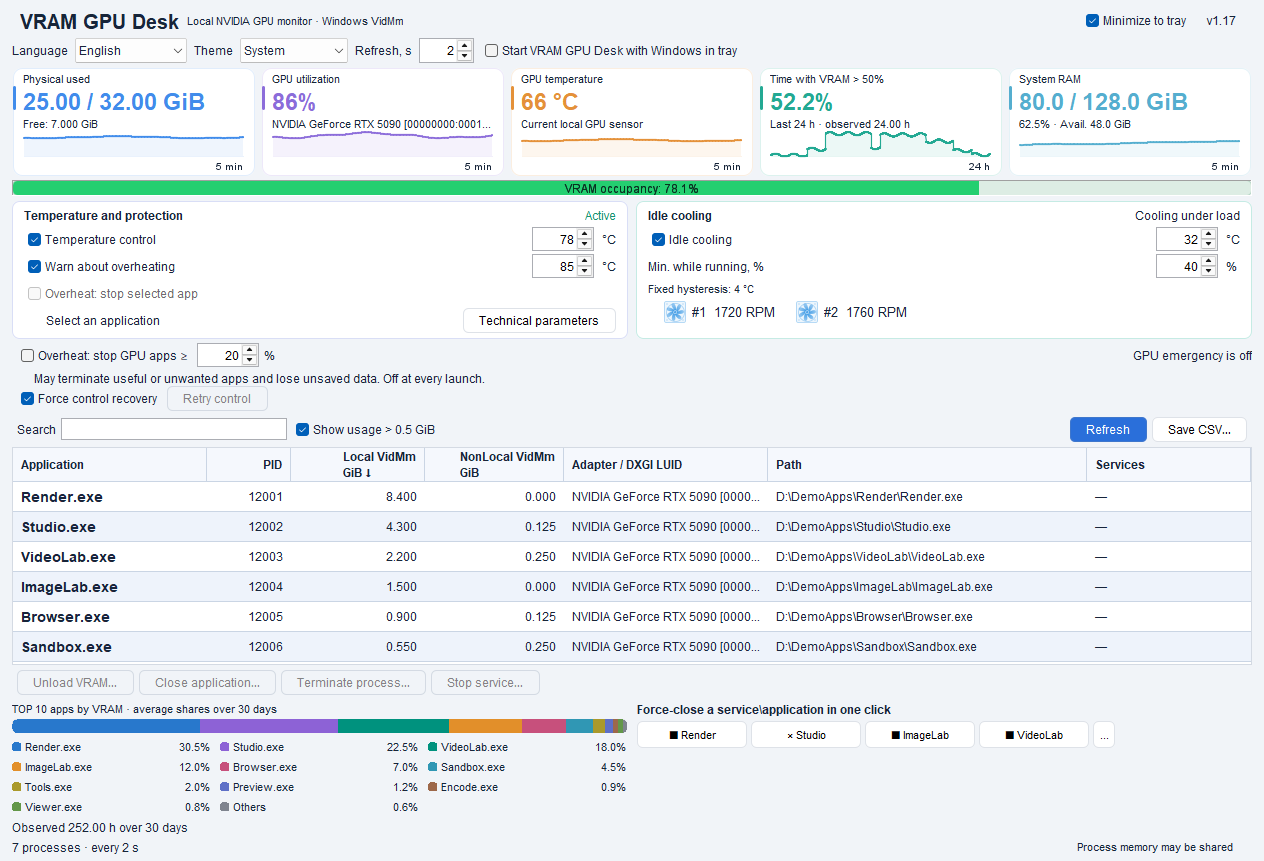
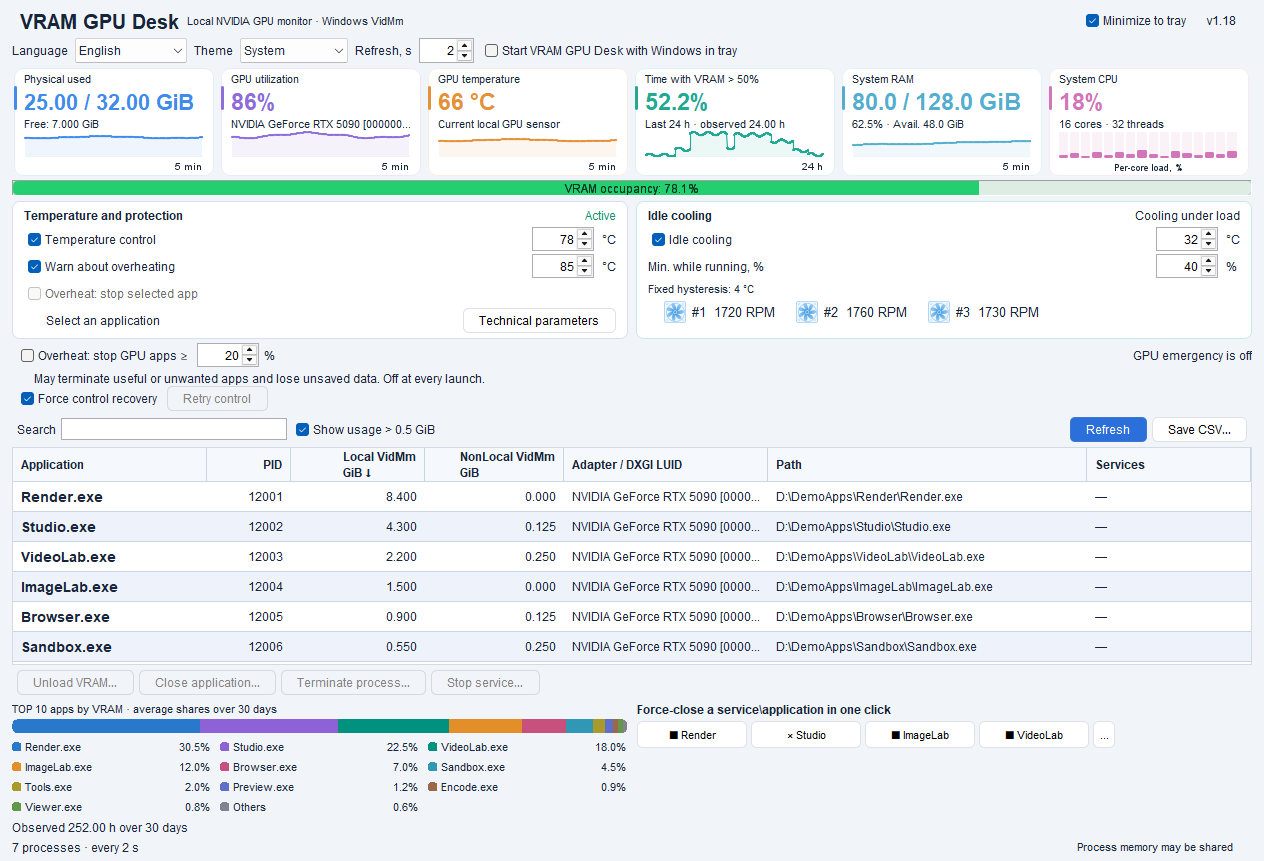
feat: publish VRAM GPU Desk 1.18
Add physical CPU load monitoring and the divided two-GPU workspace.
Update all twelve descriptions and demonstration screenshots.

Changed region(s): [[0.0, 0.0906, 0.9873, 0.2114], [0.7405, 0.3322, 0.8022, 0.3926]]

diff --git a/README.hi.md b/README.hi.md
@@ -1,4 +1,4 @@
-# VRAM GPU Desk 1.17
+# VRAM GPU Desk 1.18
 
 [English](README.md) · [Русский](README.ru.md) · [Deutsch](README.de.md) · [Español](README.es.md) · [Français](README.fr.md) · [Italiano](README.it.md) · [简体中文](README.zh.md) · [한국어](README.ko.md) · [日本語](README.ja.md) · [العربية](README.ar.md) · [हिन्दी](README.hi.md) · [Tiếng Việt](README.vi.md)
 
@@ -6,7 +6,7 @@
 
 ## मुख्य सुविधाएँ
 
-- लाइव ग्राफ़ के साथ NVIDIA VRAM, GPU लोड और तापमान तथा सिस्टम RAM उपयोग की स्थानीय निगरानी।
+- लाइव ग्राफ़ के साथ NVIDIA VRAM, GPU लोड और तापमान, सिस्टम RAM तथा कोर पट्टियों के साथ CPU उपयोग की स्थानीय निगरानी।
 - प्रत्येक प्रक्रिया की GPU मेमोरी, खोज, क्रमबद्ध करना और UTF-8 CSV निर्यात।
 - तापमान नियंत्रण और निष्क्रिय अवस्था में कूलिंग।
 - प्रक्रियाओं के सटीक इंस्टेंस से जुड़े चार अनुकूलन योग्य एक-क्लिक बटन; वैकल्पिक आपातकालीन समाप्ति हर बार ऐप शुरू होने पर बंद रहती है।
@@ -15,7 +15,7 @@
 - स्वतंत्र सेटिंग वाले दो NVIDIA पैनल; दूसरे GPU का नियंत्रण प्रयोगात्मक है।
 - नियंत्रण खोने की चेतावनी और मैन्युअल पुनः प्रयास; नई सेटिंग में बहाली ON, पहले से सहेजा गया OFF बरकरार।
 
-[Windows इंस्टॉलर डाउनलोड करें](downloads/VRAM-GPU-Desk-1.17-Setup-x64.exe) · [इंस्टॉलर ZIP](downloads/VRAM-GPU-Desk-1.17-Installer.zip)
+[Windows इंस्टॉलर डाउनलोड करें](downloads/VRAM-GPU-Desk-1.18-Setup-x64.exe) · [इंस्टॉलर ZIP](downloads/VRAM-GPU-Desk-1.18-Installer.zip)
 
 ![VRAM GPU Desk — Graphite थीम](images/dashboard-graphite.png)
 
@@ -27,6 +27,14 @@
 > **एक साथ GPU नियंत्रण:** GPU के तापमान पैरामीटर का नियंत्रण उन अन्य प्रोग्रामों से टकरा सकता है जो उसी समय पावर, क्लॉक या पंखे की गति बदलते हैं, जैसे MSI Afterburner। इन सेटिंग के लिए केवल एक सक्रिय नियंत्रक इस्तेमाल करें। यह चेतावनी एक साथ सेटिंग बदलने के बारे में है, निष्क्रिय निगरानी के बारे में नहीं।
 
 
+
+## 1.18 में नया: CPU उपयोग और दो GPU के लिए अधिक स्पष्ट कार्यक्षेत्र
+
+**सिस्टम RAM के साथ CPU लोड।** CPU कार्ड कुल उपयोग, भौतिक कोर और लॉजिकल थ्रेड की संख्या तथा हर भौतिक कोर के तात्कालिक उपयोग की अलग पट्टी दिखाता है। हर पट्टी अपने कोर के लॉजिकल थ्रेड को जोड़ती है; कुल प्रतिशत लॉजिकल प्रोसेसरों के अनुसार भारित है। Windows के अंतर्निहित माप अतिरिक्त UAC, ड्राइवर या दूसरे मॉनिटरिंग ऐप के बिना काम करते हैं। गायब, अमान्य या छह सेकंड से पुरानी रीडिंग **—** और अनुपलब्ध कोर पट्टियों से दिखाई जाती है।
+
+**एक GPU: 1200×900 पर छह कार्ड।** चार GPU कार्ड, सिस्टम RAM और CPU लोड साथ दिखाई देते हैं। **दो NVIDIA GPU: न्यूनतम 1920×1050।** हर GPU का अलग 2×2 चार-कार्ड ब्लॉक, एक सीध में रीडिंग और पूरे नियंत्रण हैं। पतली खड़ी विभाजक रेखाएँ GPU क्षेत्रों और दाईं साझा कॉलम को अलग करती हैं; ऊपर RAM और नीचे ऊँचा CPU कार्ड है। सिस्टम RAM और CPU केवल एक बार दिखाई देते हैं और GPU चयन से स्वतंत्र हैं। दूसरे GPU का नियंत्रण अभी भी प्रयोगात्मक है।
+
+जगह कम होने पर लाइन बदलने से तीनों पंखों के संकेतक दिखाई देते हैं। पंखों के नियंत्रण का तर्क नहीं बदला है। कॉम्पैक्ट त्वरित बटन, स्पष्ट प्रक्रिया नाम और सभी मौजूदा सेटिंग बरकरार हैं।
 
 ## 1.17 में नया: सिस्टम RAM एक नज़र में
 

diff --git a/README.ar.md b/README.ar.md
@@ -1,4 +1,4 @@
-# VRAM GPU Desk 1.17
+# VRAM GPU Desk 1.18
 
 [English](README.md) · [Русский](README.ru.md) · [Deutsch](README.de.md) · [Español](README.es.md) · [Français](README.fr.md) · [Italiano](README.it.md) · [简体中文](README.zh.md) · [한국어](README.ko.md) · [日本語](README.ja.md) · [العربية](README.ar.md) · [हिन्दी](README.hi.md) · [Tiếng Việt](README.vi.md)
 
@@ -6,7 +6,7 @@
 
 ## الميزات الرئيسية
 
-- مراقبة محلية لذاكرة NVIDIA VRAM وحمل GPU وحرارته، إضافة إلى RAM النظام، مع رسوم مباشرة.
+- مراقبة محلية لذاكرة NVIDIA VRAM وحمل GPU وحرارته، وRAM النظام واستخدام CPU، مع رسوم وأشرطة لكل نواة.
 - ذاكرة GPU لكل عملية، مع البحث والفرز وتصدير CSV بترميز UTF-8.
 - التحكم في الحرارة والتبريد أثناء الخمول.
 - أربعة أزرار قابلة للتخصيص بنقرة واحدة مرتبطة بنُسخ محددة من العمليات؛ الإنهاء الطارئ اختياري ويكون معطلاً عند كل تشغيل.
@@ -15,7 +15,7 @@
 - لوحتا NVIDIA بإعدادات مستقلة؛ التحكم في GPU الثانية تجريبي.
 - تحذير عند فقدان التحكم وإعادة محاولة يدوية؛ الاستعادة مفعّلة للإعدادات الجديدة مع حفظ اختيار التعطيل السابق.
 
-[تنزيل برنامج التثبيت](downloads/VRAM-GPU-Desk-1.17-Setup-x64.exe) · [حزمة ZIP للتثبيت](downloads/VRAM-GPU-Desk-1.17-Installer.zip)
+[تنزيل برنامج التثبيت](downloads/VRAM-GPU-Desk-1.18-Setup-x64.exe) · [حزمة ZIP للتثبيت](downloads/VRAM-GPU-Desk-1.18-Installer.zip)
 
 ![VRAM GPU Desk — السمة الغرافيتية](images/dashboard-graphite.png)
 
@@ -27,6 +27,14 @@
 > **التحكم المتزامن في GPU:** قد يتعارض التحكم في معلمات حرارة GPU مع برامج أخرى تغيّر الطاقة أو الترددات أو سرعة المراوح في الوقت نفسه، مثل MSI Afterburner. استخدم متحكماً فعالاً واحداً فقط لهذه الإعدادات. يتعلق التنبيه بتغيير الإعدادات بالتزامن، وليس بالمراقبة السلبية.
 
 
+
+## الجديد في 1.18: استخدام CPU ومساحة أوضح لوحدتَي GPU
+
+**حمل CPU بجوار RAM النظام.** تعرض بطاقة CPU الاستخدام الإجمالي وعدد الأنوية الفعلية والخيوط المنطقية وشريطاً للاستخدام اللحظي لكل نواة فعلية. يجمع شريط النواة خيوطها المنطقية، وتُوزن النسبة الإجمالية بحسب المعالجات المنطقية. لا تحتاج قياسات Windows المدمجة إلى UAC إضافي أو برامج تشغيل أو تطبيق مراقبة آخر. تظهر القراءات المفقودة أو غير الصالحة أو الأقدم من ست ثوانٍ كـ **—** وأشرطة أنوية غير متاحة.
+
+**GPU واحدة: ست بطاقات عند 1200×900.** تبقى بطاقات GPU الأربع وRAM النظام وحمل CPU مرئية معاً. **وحدتا NVIDIA GPU: الحد الأدنى 1920×1050.** لكل GPU كتلة بطاقات 2×2 مستقلة وقراءات متراصفة وجميع عناصر التحكم. تفصل خطوط عمودية رفيعة مناطق GPU عن العمود المشترك على اليمين، وفيه RAM في الأعلى وبطاقة CPU أطول تحتها. تظهر RAM وCPU مرة واحدة ولا تتبعان اختيار GPU. يظل التحكم في GPU الثانية تجريبياً.
+
+تبقى مؤشرات المراوح الثلاثة ظاهرة بفضل التفافها إلى سطر جديد عند ضيق المساحة. لا يتغير منطق التحكم في المراوح. تبقى الأزرار السريعة المدمجة ووضوح أسماء العمليات وجميع الإعدادات السابقة.
 
 ## الجديد في 1.17: RAM النظام بلمحة واحدة
 

diff --git a/README.ja.md b/README.ja.md
@@ -1,4 +1,4 @@
-# VRAM GPU Desk 1.17
+# VRAM GPU Desk 1.18
 
 [English](README.md) · [Русский](README.ru.md) · [Deutsch](README.de.md) · [Español](README.es.md) · [Français](README.fr.md) · [Italiano](README.it.md) · [简体中文](README.zh.md) · [한국어](README.ko.md) · [日本語](README.ja.md) · [العربية](README.ar.md) · [हिन्दी](README.hi.md) · [Tiếng Việt](README.vi.md)
 
@@ -6,7 +6,7 @@
 
 ## 主な機能
 
-- NVIDIAのVRAM、GPU負荷、温度に加え、システムRAMの使用状況をライブグラフでローカル監視します。
+- NVIDIAのVRAM、GPU負荷と温度、システムRAM、CPU使用率をグラフとコア別バーでローカル監視します。
 - プロセス別GPUメモリ、検索、並べ替え、UTF-8 CSV出力に対応します。
 - 温度制御とアイドル時の冷却を備えています。
 - 特定のプロセスインスタンスに紐づく、設定可能なワンクリックボタンを4個用意しています。任意の緊急終了機能は起動するたびにOFFになります。
@@ -15,7 +15,7 @@
 - 独立設定を持つ2つの NVIDIA パネル。2基目の GPU 制御は実験的機能です。
 - 制御喪失の警告と手動再試行。新しい設定では復旧が有効になり、明示的に保存した無効設定は維持されます。
 
-[Windows インストーラー](downloads/VRAM-GPU-Desk-1.17-Setup-x64.exe) · [インストーラー ZIP](downloads/VRAM-GPU-Desk-1.17-Installer.zip)
+[Windows インストーラー](downloads/VRAM-GPU-Desk-1.18-Setup-x64.exe) · [インストーラー ZIP](downloads/VRAM-GPU-Desk-1.18-Installer.zip)
 
 ![VRAM GPU Desk — グラファイトテーマ](images/dashboard-graphite.png)
 
@@ -27,6 +27,14 @@
 > **GPU の同時制御:** GPU の温度パラメーター制御は、電力、クロック、ファン速度を同時に変更する他のプログラム（MSI Afterburner など）と競合する場合があります。これらの設定を操作する有効な制御ソフトは一つだけにしてください。この注意は設定の同時変更に関するもので、受動的な監視は対象ではありません。
 
 
+
+## 1.18の新機能：CPU使用率と見やすい2GPUワークスペース
+
+**システムRAMの隣にCPU負荷を表示。** CPUカードには全体の使用率、物理コア数と論理スレッド数、物理コアごとの瞬間的な使用率バーを表示します。各バーは同じコアの論理スレッドをまとめ、全体の使用率は論理プロセッサ数に応じて重み付けします。Windows内蔵の計測を使うため、追加のUAC、ドライバー、監視アプリは不要です。欠落、無効、または6秒を超えて古い値は **—** と利用不可のコアバーで示します。
+
+**1GPU：1200×900で6枚のカード。** GPU用4枚とシステムRAM、CPU負荷を同時に確認できます。**NVIDIAの2GPU：最小1920×1050。** 各GPUに2×2の4カード、位置をそろえた測定値、すべての制御項目を配置します。細い縦線でGPU領域と右側の共有列を区切り、RAMを上、縦長のCPUカードを下に表示します。システムRAMとCPUは1か所だけに表示し、GPU選択に依存しません。2基目のGPU制御は引き続き実験的です。
+
+幅が足りない場合は折り返し、3つすべてのファン表示を見えるようにしました。ファン制御ロジックは変わりません。コンパクトなクイックボタン、読みやすいプロセス名、既存の設定を維持します。
 
 ## 1.17の新機能：システムRAMをひと目で確認
 

diff --git a/README.ko.md b/README.ko.md
@@ -1,4 +1,4 @@
-# VRAM GPU Desk 1.17
+# VRAM GPU Desk 1.18
 
 [English](README.md) · [Русский](README.ru.md) · [Deutsch](README.de.md) · [Español](README.es.md) · [Français](README.fr.md) · [Italiano](README.it.md) · [简体中文](README.zh.md) · [한국어](README.ko.md) · [日本語](README.ja.md) · [العربية](README.ar.md) · [हिन्दी](README.hi.md) · [Tiếng Việt](README.vi.md)
 
@@ -6,7 +6,7 @@
 
 ## 주요 기능
 
-- 실시간 그래프로 NVIDIA VRAM, GPU 부하와 온도 및 시스템 RAM 사용량을 로컬에서 모니터링합니다.
+- 실시간 그래프로 NVIDIA VRAM, GPU 부하와 온도, 시스템 RAM을 모니터링하고 코어별 막대로 CPU 사용률을 표시합니다.
 - 프로세스별 GPU 메모리, 검색, 정렬 및 UTF-8 CSV 내보내기를 지원합니다.
 - 온도 제어와 유휴 냉각을 제공합니다.
 - 정확한 프로세스 인스턴스에 연결되는 설정 가능한 원클릭 버튼 4개를 제공합니다. 선택형 긴급 종료 기능은 매번 시작할 때 꺼져 있습니다.
@@ -15,7 +15,7 @@
 - 독립 설정을 갖춘 NVIDIA 패널 두 개; 두 번째 GPU 제어는 실험 기능입니다.
 - 제어 손실 경고와 수동 재시도; 새 설정은 복구가 켜지며 명시적으로 저장한 끄기는 유지됩니다.
 
-[Windows 설치 프로그램 다운로드](downloads/VRAM-GPU-Desk-1.17-Setup-x64.exe) · [설치 프로그램 ZIP](downloads/VRAM-GPU-Desk-1.17-Installer.zip)
+[Windows 설치 프로그램 다운로드](downloads/VRAM-GPU-Desk-1.18-Setup-x64.exe) · [설치 프로그램 ZIP](downloads/VRAM-GPU-Desk-1.18-Installer.zip)
 
 ![VRAM GPU Desk — 그래파이트 테마](images/dashboard-graphite.png)
 
@@ -27,6 +27,14 @@
 > **동시 GPU 제어:** GPU 온도 매개변수 제어는 전력, 클럭 또는 팬 속도를 동시에 변경하는 다른 프로그램(예: MSI Afterburner)과 충돌할 수 있습니다. 이 설정에는 하나의 활성 제어기만 사용하세요. 이 경고는 설정의 동시 변경에 관한 것이며 수동 모니터링은 해당하지 않습니다.
 
 
+
+## 1.18의 새 기능: CPU 사용률과 더 명확한 듀얼 GPU 작업 공간
+
+**시스템 RAM 옆에서 CPU 부하를 확인합니다.** CPU 카드는 전체 사용률, 물리 코어와 논리 스레드 수, 물리 코어별 순간 사용률 막대를 표시합니다. 각 막대는 해당 코어의 논리 스레드를 묶으며 전체 사용률은 논리 프로세서 수에 따라 가중됩니다. Windows 내장 측정값을 사용하므로 추가 UAC, 드라이버 또는 별도 모니터링 앱이 필요하지 않습니다. 누락되었거나 잘못되었거나 6초가 지난 값은 **—**와 사용할 수 없는 코어 막대로 표시합니다.
+
+**단일 GPU: 1200×900에서 카드 여섯 개.** 네 개의 GPU 카드와 시스템 RAM, CPU 부하를 함께 볼 수 있습니다. **NVIDIA GPU 두 개: 최소 1920×1050.** 각 GPU는 2×2로 배치된 카드 네 개, 정렬된 측정값과 모든 제어 항목을 가집니다. 얇은 세로 구분선이 GPU 영역과 오른쪽 공용 열을 나누며, 위에는 RAM, 아래에는 더 높은 CPU 카드가 있습니다. 시스템 RAM과 CPU는 한 번만 표시되고 GPU 선택과 무관합니다. 두 번째 GPU 제어는 계속 실험적입니다.
+
+공간이 부족하면 줄바꿈하여 팬 표시기 세 개를 모두 보여 줍니다. 팬 제어 로직은 바뀌지 않습니다. 간결한 빠른 버튼, 읽기 쉬운 프로세스 이름과 기존 설정은 유지됩니다.
 
 ## 1.17의 새 기능: 시스템 RAM을 한눈에
 

diff --git a/README.vi.md b/README.vi.md
@@ -6,7 +6,7 @@
 
 ## Tính năng chính
 
-- Giám sát cục bộ VRAM, tải và nhiệt độ NVIDIA cùng mức dùng RAM hệ thống, với biểu đồ trực tiếp.
+- Giám sát cục bộ VRAM, tải và nhiệt độ NVIDIA, RAM hệ thống và mức dùng CPU, với biểu đồ và thanh theo lõi.
 - Bộ nhớ GPU theo tiến trình, tìm kiếm, sắp xếp và xuất CSV UTF-8.
 - Điều khiển nhiệt độ và làm mát khi nhàn rỗi.
 - Bốn nút một lần nhấp có thể cấu hình, gắn với đúng phiên bản tiến trình; tính năng kết thúc khẩn cấp tùy chọn luôn TẮT khi khởi động ứng dụng.
@@ -15,7 +15,7 @@
 - Hai bảng NVIDIA với thiết lập độc lập; điều khiển GPU thứ hai là tính năng thử nghiệm.
 - Cảnh báo mất điều khiển và thử lại thủ công; khôi phục BẬT cho cài đặt mới, giữ lựa chọn TẮT đã lưu.
 
-Phiên bản **1.17** · [Bộ cài Windows](downloads/VRAM-GPU-Desk-1.17-Setup-x64.exe) · [ZIP bộ cài](downloads/VRAM-GPU-Desk-1.17-Installer.zip)
+Phiên bản **1.18** · [Bộ cài Windows](downloads/VRAM-GPU-Desk-1.18-Setup-x64.exe) · [ZIP bộ cài](downloads/VRAM-GPU-Desk-1.18-Installer.zip)
 
 ![VRAM GPU Desk — giao diện graphite](images/dashboard-graphite.png)
 
@@ -26,6 +26,14 @@ Dữ liệu minh họa tổng hợp và trạng thái điều khiển mô phỏn
 
 > **Điều khiển GPU đồng thời:** Điều khiển các tham số nhiệt độ GPU có thể xung đột với chương trình khác đồng thời thay đổi công suất, xung nhịp hoặc tốc độ quạt, chẳng hạn MSI Afterburner. Chỉ sử dụng một bộ điều khiển đang hoạt động cho các tham số này. Cảnh báo này nói về việc thay đổi cài đặt đồng thời, không phải giám sát thụ động.
 
+
+## Điểm mới trong 1.18: mức dùng CPU và bố cục hai GPU rõ ràng hơn
+
+**Tải CPU bên cạnh RAM hệ thống.** Thẻ CPU hiển thị mức dùng tổng thể, số lõi vật lý và luồng logic, và một thanh mức dùng tức thời cho mỗi lõi vật lý. Mỗi thanh gộp các luồng logic thuộc lõi đó; phần trăm tổng được tính có trọng số theo bộ xử lý logic. Số đo tích hợp của Windows không cần UAC bổ sung, trình điều khiển hay ứng dụng giám sát khác. Số đo thiếu, không hợp lệ hoặc cũ hơn sáu giây hiển thị **—** cùng các thanh lõi không khả dụng.
+
+**Một GPU: sáu thẻ ở 1200×900.** Bốn thẻ GPU, RAM hệ thống và tải CPU cùng hiện trên màn hình. **Hai GPU NVIDIA: tối thiểu 1920×1050.** Mỗi GPU có khối bốn thẻ 2×2 riêng, số đo thẳng hàng và đầy đủ điều khiển. Các đường phân cách dọc mảnh ngăn vùng GPU với cột chung bên phải: RAM ở trên, thẻ CPU cao hơn ở dưới. RAM và CPU hệ thống chỉ xuất hiện một lần, không phụ thuộc lựa chọn GPU. Điều khiển GPU thứ hai vẫn mang tính thử nghiệm.
+
+Cả ba chỉ báo quạt luôn thấy được nhờ xuống dòng khi thiếu chỗ. Logic điều khiển quạt không thay đổi. Giữ nguyên nút nhanh gọn, tên tiến trình dễ đọc và mọi cài đặt hiện có.
 
 ## Điểm mới trong 1.17: RAM hệ thống trong tầm mắt
 

diff --git a/README.fr.md b/README.fr.md
@@ -6,7 +6,7 @@
 
 ## Fonctionnalités principales
 
-- Suivi local de la VRAM, de la charge et de la température NVIDIA, ainsi que de la RAM système, avec graphiques en direct.
+- Suivi local de la VRAM, de la charge et de la température NVIDIA, de la RAM système et de la charge CPU, avec graphiques et barres par cœur.
 - Mémoire GPU par processus, recherche, tri et export CSV en UTF-8.
 - Régulation de la température et refroidissement au repos.
 - Quatre boutons configurables en un clic liés à des instances précises de processus ; la fermeture d’urgence facultative est DÉSACTIVÉE à chaque lancement.
@@ -15,7 +15,7 @@
 - Deux panneaux NVIDIA avec des réglages indépendants ; le contrôle du second GPU est expérimental.
 - Avertissement de perte de contrôle et nouvelle tentative manuelle ; récupération ACTIVÉE pour les nouveaux réglages, arrêt enregistré respecté.
 
-Version **1.17** · [Installation Windows](downloads/VRAM-GPU-Desk-1.17-Setup-x64.exe) · [ZIP d’installation](downloads/VRAM-GPU-Desk-1.17-Installer.zip)
+Version **1.18** · [Installation Windows](downloads/VRAM-GPU-Desk-1.18-Setup-x64.exe) · [ZIP d’installation](downloads/VRAM-GPU-Desk-1.18-Installer.zip)
 
 ![VRAM GPU Desk — thème graphite](images/dashboard-graphite.png)
 
@@ -26,6 +26,14 @@ Données synthétiques de démonstration et états simulés des régulateurs. Le
 
 > **Contrôle simultané du GPU:** Le contrôle des paramètres de température du GPU peut entrer en conflit avec des programmes qui modifient simultanément la puissance, les fréquences ou la vitesse des ventilateurs, par exemple MSI Afterburner. Utilisez un seul régulateur actif pour ces paramètres. Cet avertissement concerne les modifications simultanées, pas la surveillance passive.
 
+
+## Nouveautés de 1.18 : charge CPU et espace plus clair pour deux GPU
+
+**La charge CPU à côté de la RAM système.** La carte CPU affiche la charge globale, les nombres de cœurs physiques et de threads logiques et une barre de charge instantanée par cœur physique. Chaque barre regroupe les threads logiques de son cœur ; le pourcentage global est pondéré par les processeurs logiques. Les mesures intégrées à Windows ne demandent ni UAC supplémentaire, ni pilote, ni autre application de surveillance. Les mesures absentes, invalides ou vieilles de plus de six secondes affichent **—** et des barres de cœur indisponibles.
+
+**Un GPU : six cartes à 1200×900.** Les quatre cartes GPU, la RAM et la charge CPU restent visibles ensemble. **Deux GPU NVIDIA : minimum 1920×1050.** Chaque GPU dispose de son bloc 2×2 de quatre cartes, de mesures alignées et de toutes ses commandes. De fines séparations verticales délimitent les zones GPU et la colonne commune à droite : RAM en haut, carte CPU plus haute en dessous. RAM et CPU n’apparaissent qu’une fois et ne dépendent pas du GPU sélectionné. Le contrôle du second GPU reste expérimental.
+
+Les trois indicateurs de ventilateur restent visibles grâce au retour à la ligne lorsque l’espace manque. La logique de commande des ventilateurs reste inchangée. Les boutons rapides compacts, la lisibilité des processus et tous les réglages précédents sont conservés.
 
 ## Nouveautés de 1.17 : la RAM système en un coup d’œil
 

diff --git a/README.es.md b/README.es.md
@@ -6,7 +6,7 @@
 
 ## Funciones principales
 
-- Supervisión local de VRAM, carga y temperatura de NVIDIA, además de la RAM del sistema, con gráficos en tiempo real.
+- Supervisión local de VRAM, carga y temperatura NVIDIA, RAM del sistema y utilización de CPU, con gráficos y barras por núcleo.
 - Memoria GPU por proceso, búsqueda, ordenación y exportación CSV en UTF-8.
 - Control de temperatura y refrigeración en reposo.
 - Cuatro botones configurables de un clic vinculados a instancias concretas de procesos; la finalización de emergencia opcional está DESACTIVADA en cada inicio.
@@ -15,7 +15,7 @@
 - Dos paneles NVIDIA con ajustes independientes; el control de la segunda GPU es experimental.
 - Aviso de pérdida de control y reintento manual; recuperación ACTIVADA para ajustes nuevos, respetando la desactivación guardada.
 
-Versión **1.17** · [Instalador Windows](downloads/VRAM-GPU-Desk-1.17-Setup-x64.exe) · [ZIP del instalador](downloads/VRAM-GPU-Desk-1.17-Installer.zip)
+Versión **1.18** · [Instalador Windows](downloads/VRAM-GPU-Desk-1.18-Setup-x64.exe) · [ZIP del instalador](downloads/VRAM-GPU-Desk-1.18-Installer.zip)
 
 ![VRAM GPU Desk — tema grafito](images/dashboard-graphite.png)
 
@@ -26,6 +26,14 @@ Datos sintéticos de demostración y estados simulados de los reguladores. Ambas
 
 > **Control simultáneo de GPU:** El control de los parámetros de temperatura de la GPU puede entrar en conflicto con otros programas que cambien al mismo tiempo la potencia, las frecuencias o la velocidad de los ventiladores, como MSI Afterburner. Utilice un único controlador activo para estos ajustes. La advertencia se refiere a cambios simultáneos, no a la supervisión pasiva.
 
+
+## Novedades de 1.18: utilización de CPU y espacio más claro para dos GPU
+
+**Carga de CPU junto a la RAM del sistema.** La tarjeta CPU muestra utilización total, número de núcleos físicos e hilos lógicos y una barra de utilización instantánea por núcleo físico. Cada barra agrupa los hilos lógicos de su núcleo; el porcentaje global se pondera por procesadores lógicos. Las mediciones integradas de Windows no necesitan UAC adicional, controladores ni otra aplicación de supervisión. Las lecturas ausentes, inválidas o de más de seis segundos muestran **—** y barras de núcleo no disponibles.
+
+**Una GPU: seis tarjetas a 1200×900.** Las cuatro tarjetas GPU, la RAM y la carga de CPU permanecen visibles juntas. **Dos GPU NVIDIA: mínimo 1920×1050.** Cada GPU tiene su bloque 2×2 de cuatro tarjetas, mediciones alineadas y todos sus controles. Separadores verticales finos delimitan las áreas GPU y la columna compartida de la derecha: RAM arriba y una tarjeta CPU más alta debajo. RAM y CPU aparecen una sola vez y no dependen de la selección de GPU. El control de la segunda GPU sigue siendo experimental.
+
+Los tres indicadores de ventilador siguen visibles mediante el ajuste a otra línea cuando falta espacio. La lógica de control de ventiladores no cambia. Se conservan los botones rápidos compactos, la legibilidad de los procesos y todos los ajustes anteriores.
 
 ## Novedades de 1.17: RAM del sistema de un vistazo
 

diff --git a/DISTRIBUTION.md b/DISTRIBUTION.md
@@ -1,9 +1,9 @@
 # Distribution
 
-Current version: **1.17**, Windows x64.
+Current version: **1.18**, Windows x64.
 
-- [EXE installer](downloads/VRAM-GPU-Desk-1.17-Setup-x64.exe)
-- [Installer ZIP](downloads/VRAM-GPU-Desk-1.17-Installer.zip)
+- [EXE installer](downloads/VRAM-GPU-Desk-1.18-Setup-x64.exe)
+- [Installer ZIP](downloads/VRAM-GPU-Desk-1.18-Installer.zip)
 - [SHA-256 index](SHA256SUMS.txt)
 - [Release notes](RELEASE-NOTES.md)
 
@@ -25,13 +25,15 @@ NVIDIA GPUs only; AMD and Intel controls are unsupported. Model/driver capabilit
 
 Control loss shows a warning and manual Retry. Force control recovery defaults ON for new or missing settings; explicitly saved OFF is preserved. Recovery is saved per GPU and uses 5/10/30/60-second backoff after confirmed teardown and fresh same-GPU data. It retains native safety checks and cannot provide exclusive control against MSI Afterburner. Both emergency options remain OFF at each launch. See the feature descriptions in the [English README](README.md).
 
-The verified 1.17 package contains 167 manifest files and 98 Java classes. One-GPU minimum is 1200×900; two panels require 1600×950.
+The verified 1.18 package contains 167 manifest files and 106 Java classes. One-GPU minimum is 1200×900; the current two-GPU workspace requires 1920×1050.
 
-## System RAM dashboard
+## Shared RAM and CPU dashboard
 
-Version 1.17 adds a fifth System RAM card showing physical memory used/total in GiB, usage percentage, available memory and a five-minute graph. The total is physical RAM usable by Windows, not VRAM or page-file commit.
+System RAM shows physical memory used/total in GiB, usage percentage, available memory and a five-minute graph. Its total is physical RAM usable by Windows, separate from VRAM and page-file commit.
 
-System RAM is independent of GPU selection and appears only once: the primary NVIDIA panel has five cards, while a second panel retains its four GPU cards. Existing GPU controls remain available. Updates use the existing refresh interval without UAC. Missing, invalid or more than six-second-old readings show an unavailable value and a graph gap.
+The CPU card shows overall utilization, physical-core and logical-thread counts, and an instantaneous utilization bar for each physical core. Core bars group their logical threads; overall load is weighted by logical processors. Built-in Windows measurements need no extra UAC prompt, driver or external monitoring application. Missing, invalid or more than six-second-old readings are unavailable: RAM shows a gap in its history graph; CPU shows **—** and unavailable core bars.
+
+With one GPU, all six metric cards remain together at 1200×900. With two supported NVIDIA GPUs, the minimum is 1920×1050: each GPU has a four-card 2×2 block with aligned readings and complete controls. Thin vertical dividers separate the GPU areas and shared right column, with RAM above the taller CPU card. RAM and CPU appear only once, independently of GPU selection. All three fan indicators stay visible by wrapping when needed; fan-control logic is unchanged.
 
 ## Window behavior
 

diff --git a/README.de.md b/README.de.md
@@ -6,7 +6,7 @@
 
 ## Wichtigste Funktionen
 
-- Lokale Überwachung von NVIDIA-VRAM, GPU-Auslastung und Temperatur sowie System-RAM mit Live-Diagrammen.
+- Lokale Überwachung von NVIDIA-VRAM, GPU-Auslastung und Temperatur sowie System-RAM und CPU-Auslastung mit Diagrammen und Kernbalken.
 - GPU-Speicher je Prozess, Suche, Sortierung und CSV-Export in UTF-8.
 - Temperaturregelung und Kühlung im Leerlauf.
 - Vier konfigurierbare Ein-Klick-Schaltflächen für exakt gebundene Prozessinstanzen; die optionale Notfallbeendigung ist bei jedem Start AUS.
@@ -15,7 +15,7 @@
 - Zwei NVIDIA-Bereiche mit unabhängigen Einstellungen; die Steuerung der zweiten GPU ist experimentell.
 - Warnung bei Steuerungsverlust und manuelle Wiederholung; Wiederherstellung ist für neue Einstellungen EIN, gespeichertes AUS bleibt erhalten.
 
-Version **1.17** · [Windows-Installer](downloads/VRAM-GPU-Desk-1.17-Setup-x64.exe) · [Installations-ZIP](downloads/VRAM-GPU-Desk-1.17-Installer.zip)
+Version **1.18** · [Windows-Installer](downloads/VRAM-GPU-Desk-1.18-Setup-x64.exe) · [Installations-ZIP](downloads/VRAM-GPU-Desk-1.18-Installer.zip)
 
 ![VRAM GPU Desk — Graphitdesign](images/dashboard-graphite.png)
 
@@ -26,6 +26,14 @@ Synthetische Demonstrationsdaten und simulierte Reglerzustände. Beide Notfallop
 
 > **Gleichzeitige GPU-Steuerung:** Die Steuerung der GPU-Temperaturparameter kann mit anderen Programmen kollidieren, die gleichzeitig Leistungsgrenzen, Taktraten oder Lüfterdrehzahlen ändern, beispielsweise MSI Afterburner. Verwenden Sie nur einen aktiven Regler für diese Einstellungen. Gemeint sind gleichzeitige Änderungen, nicht die passive Überwachung.
 
+
+## Neu in 1.18: CPU-Auslastung und übersichtlicherer Zwei-GPU-Arbeitsbereich
+
+**CPU-Auslastung neben System-RAM.** Die CPU-Karte zeigt Gesamtauslastung, Anzahl physischer Kerne und logischer Threads und einen Balken der momentanen Auslastung je physischem Kern. Ein Kernbalken fasst seine logischen Threads zusammen; der Gesamtwert wird nach logischen Prozessoren gewichtet. Die integrierten Windows-Messungen benötigen keine zusätzliche UAC-Abfrage, Treiber oder Monitoring-Anwendung. Fehlende, ungültige oder über sechs Sekunden alte Werte erscheinen als **—** und nicht verfügbare Kernbalken.
+
+**Eine GPU: sechs Karten bei 1200×900.** Vier GPU-Karten, System-RAM und CPU-Auslastung bleiben gemeinsam sichtbar. **Zwei NVIDIA-GPUs: mindestens 1920×1050.** Jede GPU besitzt einen eigenen 2×2-Block mit vier Karten, ausgerichteten Messwerten und vollständigen Steuerelementen. Dünne vertikale Trennlinien grenzen die GPU-Bereiche von der gemeinsamen rechten Spalte ab: RAM oben, die höhere CPU-Karte darunter. System-RAM und CPU erscheinen nur einmal und hängen nicht von der GPU-Auswahl ab. Die Steuerung der zweiten GPU bleibt experimentell.
+
+Alle drei Lüfteranzeigen bleiben durch Zeilenumbruch bei Platzmangel sichtbar. Die Lüfterregelung selbst bleibt unverändert. Kompakte Schnellaktionen, lesbare Prozessnamen und alle bisherigen Einstellungen bleiben erhalten.
 
 ## Neu in 1.17: System-RAM auf einen Blick
 

diff --git a/README.it.md b/README.it.md
@@ -6,7 +6,7 @@
 
 ## Funzionalità principali
 
-- Monitoraggio locale di VRAM, carico e temperatura NVIDIA, oltre alla RAM di sistema, con grafici in tempo reale.
+- Monitoraggio locale di VRAM, carico e temperatura NVIDIA, RAM di sistema e utilizzo CPU, con grafici e barre per core.
 - Memoria GPU per processo, ricerca, ordinamento ed esportazione CSV in UTF-8.
 - Controllo della temperatura e raffreddamento in inattività.
 - Quattro pulsanti configurabili con un clic associati a istanze precise dei processi; la terminazione di emergenza facoltativa è DISATTIVATA a ogni avvio.
@@ -15,7 +15,7 @@
 - Due pannelli NVIDIA con impostazioni indipendenti; il controllo della seconda GPU è sperimentale.
 - Avviso di perdita del controllo e nuovo tentativo manuale; ripristino ATTIVO per le nuove impostazioni, disattivazione salvata rispettata.
 
-Versione **1.17** · [Installer Windows](downloads/VRAM-GPU-Desk-1.17-Setup-x64.exe) · [ZIP di installazione](downloads/VRAM-GPU-Desk-1.17-Installer.zip)
+Versione **1.18** · [Installer Windows](downloads/VRAM-GPU-Desk-1.18-Setup-x64.exe) · [ZIP di installazione](downloads/VRAM-GPU-Desk-1.18-Installer.zip)
 
 ![VRAM GPU Desk — tema grafite](images/dashboard-graphite.png)
 
@@ -26,6 +26,14 @@ Dati dimostrativi sintetici e stati simulati dei regolatori. Entrambe le opzioni
 
 > **Controllo simultaneo della GPU:** Il controllo dei parametri di temperatura della GPU può entrare in conflitto con altri programmi che modificano contemporaneamente potenza, frequenze o velocità delle ventole, ad esempio MSI Afterburner. Usare un solo regolatore attivo per questi parametri. L’avviso riguarda le modifiche simultanee, non il monitoraggio passivo.
 
+
+## Novità della 1.18: utilizzo CPU e spazio più chiaro per due GPU
+
+**Carico CPU accanto alla RAM di sistema.** La scheda CPU mostra utilizzo totale, numero di core fisici e thread logici e una barra di utilizzo istantaneo per ogni core fisico. Ogni barra raggruppa i thread logici del suo core; la percentuale totale è ponderata per processori logici. Le misurazioni integrate di Windows non richiedono UAC aggiuntivo, driver o altre applicazioni di monitoraggio. Le letture mancanti, non valide o vecchie di oltre sei secondi mostrano **—** e barre dei core non disponibili.
+
+**Una GPU: sei schede a 1200×900.** Le quattro schede GPU, la RAM e il carico CPU restano visibili insieme. **Due GPU NVIDIA: minimo 1920×1050.** Ogni GPU ha il proprio blocco 2×2 di quattro schede, letture allineate e tutti i controlli. Sottili separatori verticali distinguono le aree GPU dalla colonna condivisa a destra: RAM sopra e una scheda CPU più alta sotto. RAM e CPU compaiono una sola volta e non dipendono dalla GPU selezionata. Il controllo della seconda GPU rimane sperimentale.
+
+Tutti e tre gli indicatori delle ventole restano visibili andando a capo quando manca spazio. La logica di controllo delle ventole non cambia. Sono mantenuti pulsanti rapidi compatti, leggibilità dei processi e tutte le impostazioni precedenti.
 
 ## Novità della 1.17: RAM di sistema a colpo d’occhio
 

diff --git a/README.zh.md b/README.zh.md
@@ -1,4 +1,4 @@
-# VRAM GPU Desk 1.17
+# VRAM GPU Desk 1.18
 
 [English](README.md) · [Русский](README.ru.md) · [Deutsch](README.de.md) · [Español](README.es.md) · [Français](README.fr.md) · [Italiano](README.it.md) · [简体中文](README.zh.md) · [한국어](README.ko.md) · [日本語](README.ja.md) · [العربية](README.ar.md) · [हिन्दी](README.hi.md) · [Tiếng Việt](README.vi.md)
 
@@ -6,7 +6,7 @@
 
 ## 主要功能
 
-- 本地监控 NVIDIA VRAM、GPU 负载与温度，以及系统 RAM 使用情况，并提供实时图表。
+- 本地监控 NVIDIA VRAM、GPU 负载与温度、系统 RAM 和 CPU 利用率，并提供图表与核心使用条。
 - 查看各进程的 GPU 内存，支持搜索、排序和 UTF-8 CSV 导出。
 - 温度控制与空闲散热。
 - 四个可配置的一键按钮，绑定到确切的进程实例；紧急终止功能须单独启用，每次启动时均为关闭状态。
@@ -15,7 +15,7 @@
 - 两个独立设置的 NVIDIA 面板；第二块 GPU 的控制功能为实验性功能。
 - 控制丢失警告与手动重试；新设置默认开启恢复，保留已明确保存的关闭选择。
 
-[下载 Windows 安装程序](downloads/VRAM-GPU-Desk-1.17-Setup-x64.exe) · [安装程序 ZIP 包](downloads/VRAM-GPU-Desk-1.17-Installer.zip)
+[下载 Windows 安装程序](downloads/VRAM-GPU-Desk-1.18-Setup-x64.exe) · [安装程序 ZIP 包](downloads/VRAM-GPU-Desk-1.18-Installer.zip)
 
 ![VRAM GPU Desk — 石墨深色主题](images/dashboard-graphite.png)
 
@@ -27,6 +27,14 @@
 > **同时控制 GPU:** GPU 温度参数控制可能与同时更改功率、频率或风扇转速的其他程序发生冲突，例如 MSI Afterburner。请仅使用一个活动控制器来调节这些参数。此警告针对同时修改设置，不针对被动监控。
 
 
+
+## 1.18 新增：CPU 利用率与更清晰的双 GPU 工作区
+
+**在系统 RAM 旁查看 CPU 负载。** CPU 卡片显示总利用率、物理核心数和逻辑线程数、每个物理核心的即时利用率条。每个核心条汇总该核心的逻辑线程；总百分比按逻辑处理器加权。使用 Windows 内置测量，无需额外 UAC、驱动或其他监控程序。缺失、无效或超过六秒的读数显示 **—**，核心条表示数据不可用。
+
+**单 GPU：1200×900 下显示六张卡片。** 四张 GPU 卡片、系统 RAM 和 CPU 负载同时可见。**双 NVIDIA GPU：最低 1920×1050。** 每张 GPU 各有一个 2×2 的四卡片区域、对齐的读数及完整控制项。细竖线分隔 GPU 区域和右侧共享列：上方是 RAM，下方是更高的 CPU 卡片。系统 RAM 和 CPU 只显示一次，不受 GPU 选择影响。第二张 GPU 的控制仍属实验性。
+
+空间不足时，三个风扇指示器会换行，确保全部可见；风扇控制逻辑不变。紧凑快速按钮、进程文字可读性和原有设置均保留。
 
 ## 1.17 新增：一眼查看系统 RAM
 
